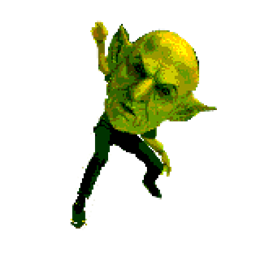
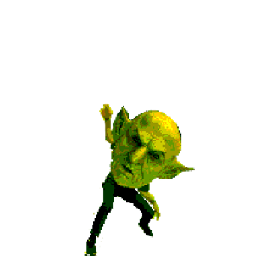
Dying stuff better
better

Changed region(s): [[0.25, 0.0625, 0.8438, 1.0]]

diff --git a/game.py b/game.py
@@ -207,11 +207,26 @@ def load_image(image, darken, colorKey=None):
 
     return ret
 
+
+textures = {
+    0: load_image(pygame.image.load("imgs/wall.png").convert(), False),
+    1: load_image(pygame.image.load("imgs/wall.png").convert(), False),
+    2: load_image(pygame.image.load("imgs/wall.png").convert(), False),
+    3: load_image(pygame.image.load("imgs/closed_door.png").convert(), False),
+    4: load_image(pygame.image.load("imgs/opened_door.png").convert(), False),
+    100: load_image(pygame.image.load("imgs/wall.png").convert(), True),
+    101: load_image(pygame.image.load("imgs/wall.png").convert(), True),
+    102: load_image(pygame.image.load("imgs/wall.png").convert(), True),
+    103: load_image(pygame.image.load("imgs/closed_door.png").convert(), True),
+    104: load_image(pygame.image.load("imgs/opened_door.png").convert(), True)
+}
+
 ghost_images = {
     0: load_image(pygame.image.load("imgs/enemies/ghost/A3.png").convert_alpha(), False),
     1: load_image(pygame.image.load("imgs/enemies/ghost/A4.png").convert_alpha(), False),
     2: load_image(pygame.image.load("imgs/enemies/ghost/A5.png").convert_alpha(), False)
 }
+
 goblin_images = {
     0: load_image(pygame.image.load("imgs/enemies/goblin/A1.png").convert_alpha(), False),
     1: load_image(pygame.image.load("imgs/enemies/goblin/A2.png").convert_alpha(), False),
@@ -220,7 +235,9 @@ goblin_images = {
     4: load_image(pygame.image.load("imgs/enemies/goblin/A5.png").convert_alpha(), False),
     5: load_image(pygame.image.load("imgs/enemies/goblin/A6.png").convert_alpha(), False),
     6: load_image(pygame.image.load("imgs/enemies/goblin/A7.png").convert_alpha(), False),
-    7: load_image(pygame.image.load("imgs/enemies/goblin/A8.png").convert_alpha(), False)
+    7: load_image(pygame.image.load("imgs/enemies/goblin/A8.png").convert_alpha(), False),
+    "die1": load_image(pygame.image.load("imgs/enemies/goblin/GDying1.png").convert_alpha(), False),
+    "die2": load_image(pygame.image.load("imgs/enemies/goblin/GDying2.png").convert_alpha(), False)
 }
 
 gore_pile = load_image(pygame.image.load("imgs/enemies/gorepile.png").convert_alpha(), False)
@@ -237,7 +254,7 @@ def distance_fog(distance, scaled_texture):
 
 def ray_cast_better():
     global background
-    global textures
+    
     global sprites
 
     w = WIDTH
@@ -533,7 +550,7 @@ def fire(max_distance):
             if (sprite_x + (0.5 - sprite_width) < fire_x < sprite_x + (0.5 + sprite_width) and
                 sprite_y+ (0.5 - sprite_width) < fire_y < sprite_y + (0.5 + sprite_width)):
                 print(f"Hit detected on sprite at {sprite.coords} after {dist} units")
-                # handle_hit(sprite)  # Call a function to handle the hit
+                sprite.handle_hit()  # Call a function to handle the hit
                 return
 
         # Optionally, check if the bullet hits a wall or other obstacle in the map
@@ -569,9 +586,10 @@ def check_sprite_collision(sprite1, sprite2):
         sprite1.coords[1] < sprite2.coords[1] + sprite2.width and
         sprite1.coords[1] + sprite1.width > sprite2.coords[1]):
 
-        print(f"Collision detected!")
+        # print(f"Collision detected!")
         sprite1.handle_collision(sprite2)
         sprite2.handle_collision(sprite1)
+        print("test")
         return True
 
     return False
@@ -598,7 +616,9 @@ class Sprite:
         self.frame = 0
 
     def handle_collision(self, sprite):
-        pass
+        if sprite.s_type == "proj":
+            self.get_hit()
+            print("test")
 
     def get_hit(self):
         if self.invulnerable:
@@ -611,15 +631,24 @@ class Sprite:
         # if self.s_type == "goblin":
         #     self.texture = goblin_images["falling"]
 
+    def handle_hit(self):
+        self.get_hit()
+
     def hit_player(self):
         pass
 
     def simulate(self):
+        global sprites
         if self.mark_for_death == 1:
             sprites.append(Sprite((self.coords), gore_pile, (256, 256), 0.3, s_type = 'gore pile'))
-            sprites.remove(self)
+            self.texture = gore_pile
+            # sprites.remove(self)
 
         elif self.mark_for_death > 1:
+            if self.mark_for_death <= 10:
+                self.texture = goblin_images["die2"]
+            elif self.mark_for_death <= 20:
+                self.texture = goblin_images["die1"]
             self.mark_for_death -= 1
 
         else:        
@@ -629,7 +658,10 @@ class Sprite:
                 if MAP[int(self.coords[0] + 0.5)][int(self.coords[1] + 0.5)] in TEMP_WALL:
                     print("yayy")
                     sprites.remove(self)
-
+                
+                for i in sprites:
+                    if i.s_type != "proj":
+                        check_sprite_collision(self, i)
 
             if self.s_type == "ghost":
                 self.texture = ghost_images[anim_frames % 3]
@@ -714,13 +746,13 @@ class Sprite:
                                 direction_x /= distance
                                 direction_y /= distance
 
-                            projectile = (Sprite((self.coords[0] - 0.5 + (0.5 * direction_x), self.coords[1] - 0.5 + (0.5 * direction_y)), fireball_proj, (256,256), 0.1, solid=False, speed=0.1, dir=(direction_x, direction_y), s_type="proj"))
+                            projectile = (Sprite((self.coords[0] - 0.5 + (0.5 * direction_x), self.coords[1] - 0.5 + (0.5 * direction_y)), fireball_proj, (256,256), 0.1, solid=False, invulnerable=True, speed=0.1, dir=(direction_x, direction_y), s_type="proj"))
                             sprites.append(projectile)
                         
                         if self.frame >= 8:
                             self.texture = goblin_images[0]
                         
-                        if self.frame == 20: # amount of 'recovery' frames for the attack
+                        if self.frame == 12: # amount of 'recovery' frames for the attack
                             self.attacking = False
                         
                         
@@ -771,7 +803,7 @@ def load_level():
     global MAP_WIDTH
     global MAP_HEIGHT
     global background
-    global textures
+    
     global goal_coords
     global sprites
     global score
@@ -819,7 +851,6 @@ def load_level():
 def init():
     global running
     global total_score
-    global textures
     global level
     global sprites
     global MAP
@@ -835,17 +866,6 @@ def init():
     attack = False
     
     held_spell = "fireball"
-
-    textures = {0: load_image(pygame.image.load("imgs/wall.png").convert(), False),
-                1: load_image(pygame.image.load("imgs/wall.png").convert(), False),
-                2: load_image(pygame.image.load("imgs/wall.png").convert(), False),
-                3: load_image(pygame.image.load("imgs/closed_door.png").convert(), False),
-                4: load_image(pygame.image.load("imgs/opened_door.png").convert(), False),
-                100: load_image(pygame.image.load("imgs/wall.png").convert(), True),
-                101: load_image(pygame.image.load("imgs/wall.png").convert(), True),
-                102: load_image(pygame.image.load("imgs/wall.png").convert(), True),
-                103: load_image(pygame.image.load("imgs/closed_door.png").convert(), True),
-                104: load_image(pygame.image.load("imgs/opened_door.png").convert(), True)}
 
     total_score = 0
     level = 1
@@ -878,9 +898,8 @@ def init():
 
                         if held_spell == "fireball":
                             # sprites.append(Sprite(player_coords, fireball_proj, (256,256), 0.1, dir=(player_rotation['x'], player_rotation['y']), speed=1, s_type="proj"))
-                            print("hi")
-                            print(player_rotation)
-                            sprites.append(Sprite((player_coords['x'] - 0.5 + (0.5 * player_rotation['x']), player_coords['y'] - 0.5 + (0.5 * player_rotation['y'])), fireball_proj, (256,256), 0.1, solid=False, speed=0.1, dir=(player_rotation['x'],player_rotation['y']), s_type="proj"))
+                            
+                            sprites.append(Sprite((player_coords['x'] - 0.5 + (0.5 * player_rotation['x']), player_coords['y'] - 0.5 + (0.5 * player_rotation['y'])), fireball_proj, (256,256), 0.1, solid=False, invulnerable=True, speed=0.1, dir=(player_rotation['x'],player_rotation['y']), s_type="proj"))
                             # pass
                     else:
                         attack = False
